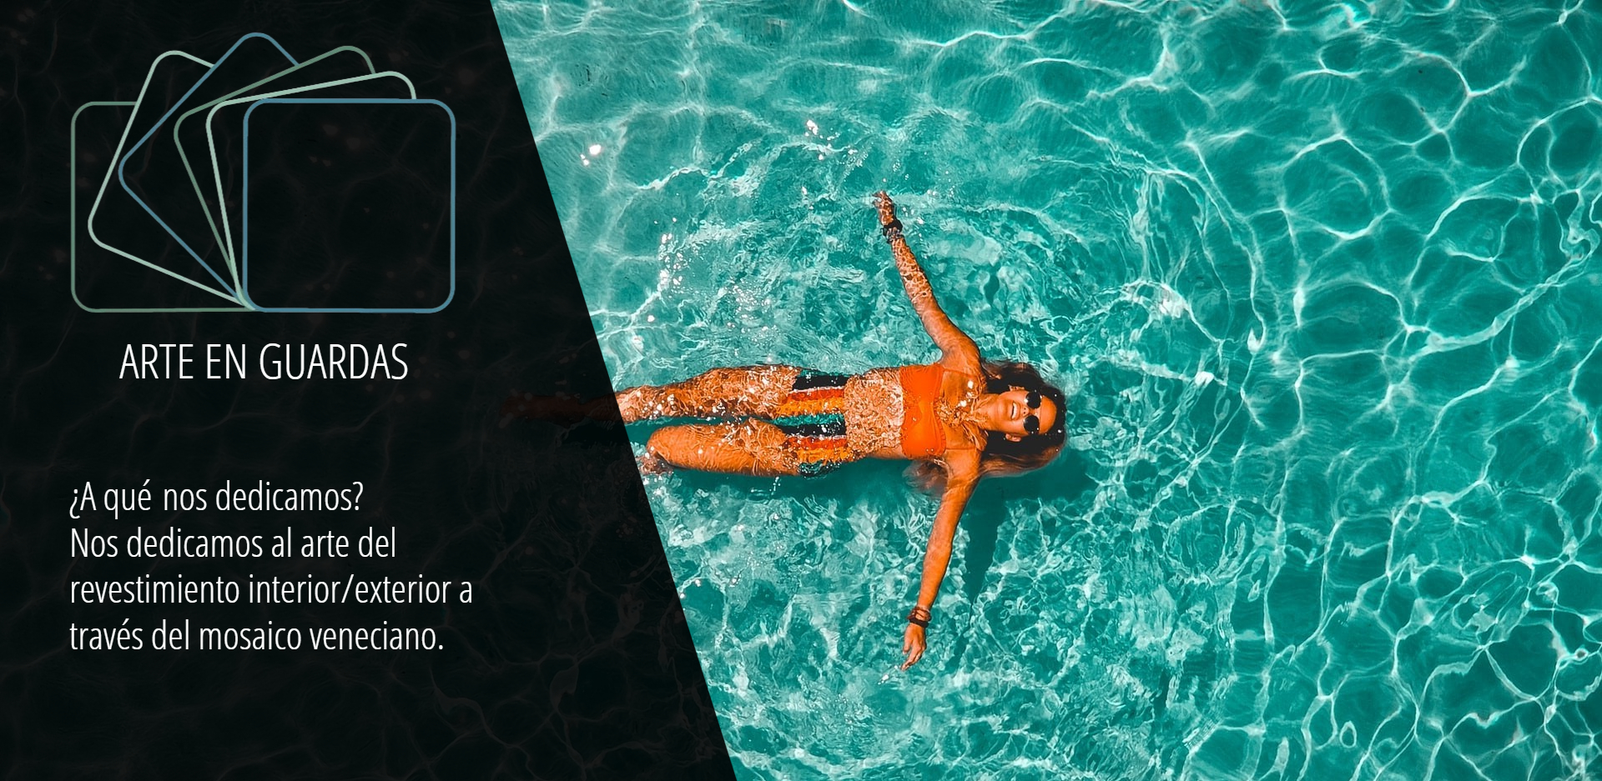
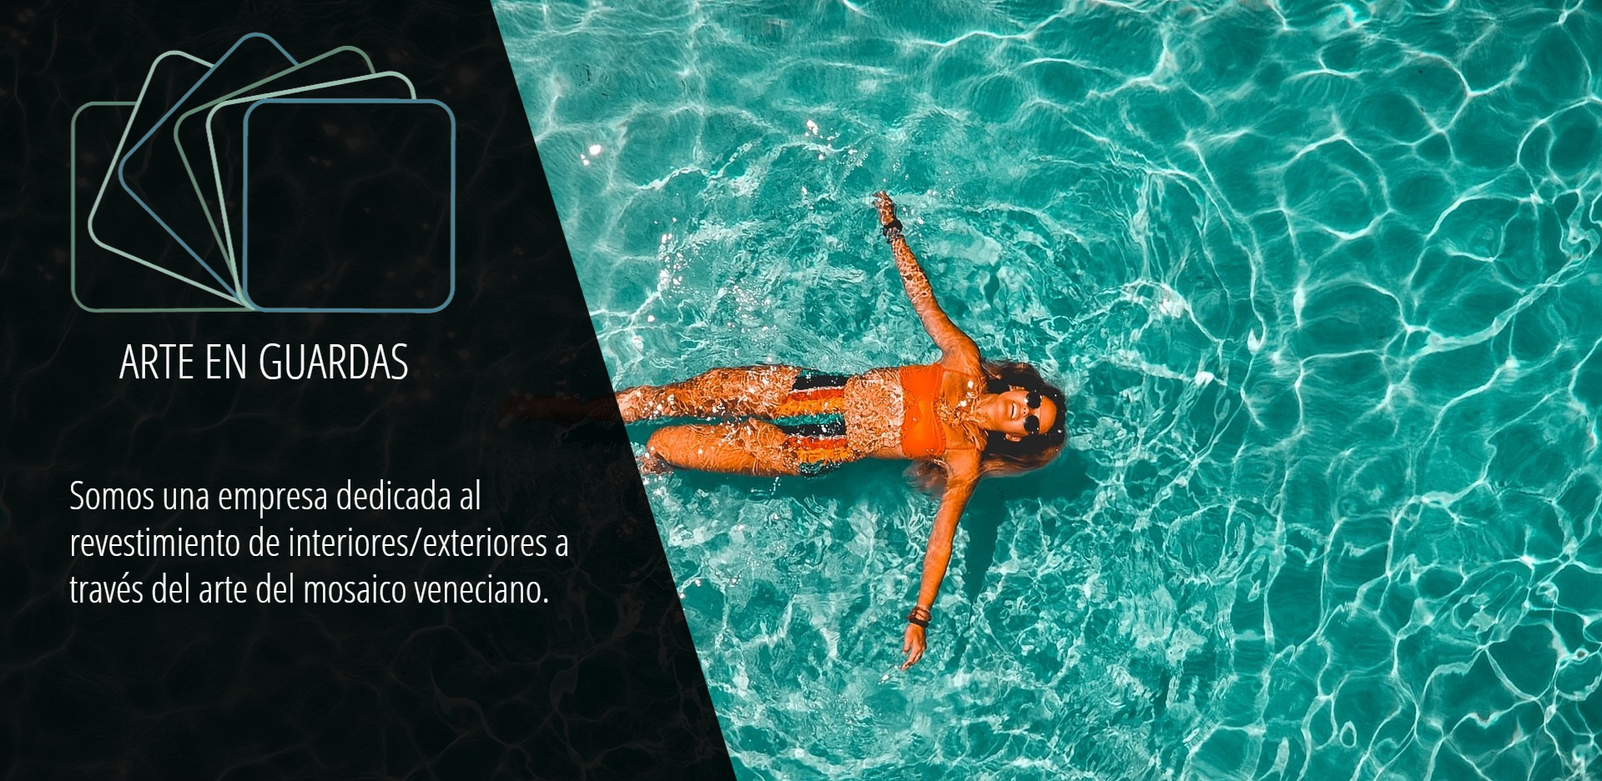
h1 y carrusel

Changed region(s): [[0.0312, 0.619, 0.375, 0.7118], [0.0312, 0.7428, 0.3438, 0.7737], [0.0312, 0.8047, 0.2812, 0.8356]]

diff --git a/estilos/main.css b/estilos/main.css
@@ -1,1 +1,1 @@
-.galeriaImg__texto{font-family:'Open Sans', sans-serif;text-align:center;color:white;font-size:1.1rem;margin-top:25px;margin-bottom:25px}.galeriaImg__contenedor{display:-webkit-box;display:-ms-flexbox;display:flex;-ms-flex-wrap:wrap;flex-wrap:wrap;-webkit-box-pack:space-evenly;-ms-flex-pack:space-evenly;justify-content:space-evenly}.galeriaImg__img{width:38vw;margin-bottom:5vh}*{margin:0px;padding:0px}.navPrueba{font-size:1rem;font-family:'Open Sans', sans-serif;color:white !important;margin-left:7px;margin-right:7px}.navPrueba:hover{color:#c5c5c5 !important}.navPrueba--active{color:#c0bfbf !important;border-bottom:1px solid #fff;font-family:'Open Sans', sans-serif;font-size:1rem}.sticky{background-color:rgba(0,0,0,0.63);position:-webkit-sticky;position:sticky;top:0px;z-index:100}.textoIndex{font-family:'Open Sans', sans-serif;color:#fff;text-align:center;font-size:1vw;margin-top:50px;margin-bottom:70px}body{background-color:#171717}.centrarImg{display:-webkit-box;display:-ms-flexbox;display:flex;-ms-flex-wrap:wrap;flex-wrap:wrap;-ms-flex-pack:distribute;justify-content:space-around}.imagen:hover{-webkit-transform:scale(1.03);transform:scale(1.03);-webkit-transition:0.5s;transition:0.5s}.marginCarrusel{margin-bottom:20px}.marginCarrusel .txtCarrusel{color:white;font-size:1.1rem;font-family:'Open Sans', sans-serif}.color123{background-color:#262626}.navBetween{display:-webkit-box;display:-ms-flexbox;display:flex;-webkit-box-pack:justify !important;-ms-flex-pack:justify !important;justify-content:space-between !important}.logo{width:200px;text-decoration:none;font-size:1rem;font-family:'Open Sans', sans-serif;color:white !important;margin-left:7px;margin-right:7px}.logo:hover{color:#cccaca !important}.movFot{-webkit-transform:translatey(-30px);transform:translatey(-30px)}.footerIndex{font-family:'Open Sans', sans-serif;padding-top:20px;padding-bottom:20px;display:-webkit-box;display:-ms-flexbox;display:flex;-webkit-box-orient:vertical;-webkit-box-direction:normal;-ms-flex-direction:column;flex-direction:column;-webkit-box-pack:space-evenly;-ms-flex-pack:space-evenly;justify-content:space-evenly;-webkit-box-align:center;-ms-flex-align:center;align-items:center}.footerIndex a{color:white}.footerIndex__texto{text-align:center;color:white;font-size:3.1vw;margin-top:10px}.listFooter__redes:hover{-webkit-transform:scale(1.08);transform:scale(1.08);-webkit-transform:rotate(15deg);transform:rotate(15deg)}.boton_Wpp{position:fixed;width:50px;height:50px;bottom:15px;left:15px;background:#25d366;color:#FFF;border-radius:40px;text-align:center;font-size:33px;z-index:100;-webkit-transition:300ms;transition:300ms}.boton_Wpp:hover{background-color:#5ed389fd;color:white}@media only screen and (min-width: 320px){.textoIndex{font-size:3vw;margin-top:20px;margin-bottom:30px}.imagen{width:75vw;margin-bottom:8vh}iframe{width:85vw;height:20vh}.listFooter{list-style:none;display:-webkit-box;display:-ms-flexbox;display:flex}.listFooter__redes{color:#fff;font-size:3.8vw;margin-left:5px;margin-right:5px}.galeriaImg__img{width:85vw;margin-top:5vh}}@media only screen and (min-width: 420px){.textoIndex{font-size:3vw;margin-top:20px;margin-bottom:30px}.imagen{width:75vw;margin-bottom:8vh}iframe{width:85vw;height:20vh}.listFooter{list-style:none;display:-webkit-box;display:-ms-flexbox;display:flex}.listFooter__redes{color:#fff;font-size:3.8vw;margin-left:5px;margin-right:5px}.galeriaImg__img{width:85vw;margin-top:5vh}}@media only screen and (min-width: 768px){iframe{width:30px}.footerIndex{padding-top:20px;padding-bottom:20px;display:-webkit-box;display:-ms-flexbox;display:flex;-webkit-box-orient:horizontal;-webkit-box-direction:normal;-ms-flex-direction:row;flex-direction:row;-webkit-box-pack:space-evenly;-ms-flex-pack:space-evenly;justify-content:space-evenly;-webkit-box-align:center;-ms-flex-align:center;align-items:center}.footerIndex__texto{text-align:center;color:white;font-size:2vw;margin-top:10px}iframe{width:50vw;height:30vh}.listFooter{list-style:none;display:-webkit-box;display:-ms-flexbox;display:flex;-webkit-box-orient:vertical;-webkit-box-direction:normal;-ms-flex-direction:column;flex-direction:column}.listFooter__redes{color:white;font-size:2.5vw;margin-left:5px;margin-right:5px}.imagen{width:45vw;margin-bottom:8vh}.textoIndex{font-size:2.3vw;margin-top:20px;margin-bottom:30px}.galeriaImg__img{width:45vw;margin-top:5px}}@media only screen and (min-width: 1024px){.footerIndex{padding-top:20px;padding-bottom:20px;display:-webkit-box;display:-ms-flexbox;display:flex;-webkit-box-orient:horizontal;-webkit-box-direction:normal;-ms-flex-direction:row;flex-direction:row;-webkit-box-pack:space-evenly;-ms-flex-pack:space-evenly;justify-content:space-evenly;-webkit-box-align:center;-ms-flex-align:center;align-items:center}.footerIndex__texto{text-align:center;color:white;font-size:1.5vw;margin-top:10px}iframe{width:50vw;height:30vh}.listFooter{list-style:none;display:-webkit-box;display:-ms-flexbox;display:flex;-webkit-box-orient:vertical;-webkit-box-direction:normal;-ms-flex-direction:column;flex-direction:column}.listFooter__redes{color:white;font-size:1.8vw;margin-left:5px;margin-right:19px}.imagen{width:38vw;margin-bottom:8vh}.textoIndex{font-size:1.5vw;margin-top:40px;margin-bottom:60px}.galeriaImg__img{width:42vw;margin-top:5vh}}
+.galeriaImg__texto{font-family:'Open Sans', sans-serif;text-align:center;color:white;font-size:1.1rem;margin-top:25px;margin-bottom:25px}.galeriaImg__contenedor{display:-webkit-box;display:-ms-flexbox;display:flex;-ms-flex-wrap:wrap;flex-wrap:wrap;-webkit-box-pack:space-evenly;-ms-flex-pack:space-evenly;justify-content:space-evenly}.galeriaImg__img{width:38vw;margin-bottom:5vh}*{margin:0px;padding:0px}.navPrueba{font-size:1rem;font-family:'Open Sans', sans-serif;color:white !important;margin-left:7px;margin-right:7px}.navPrueba:hover{color:#c5c5c5 !important}.navPrueba--active{color:#c0bfbf !important;border-bottom:1px solid #fff;font-family:'Open Sans', sans-serif;font-size:1rem}.sticky{background-color:rgba(0,0,0,0.63);position:-webkit-sticky;position:sticky;top:0px;z-index:100}.textoIndex{font-family:'Open Sans', sans-serif;color:#fff;text-align:center;font-size:1vw;margin-top:50px;margin-bottom:70px}body{background-color:#171717}.centrarImg{display:-webkit-box;display:-ms-flexbox;display:flex;-ms-flex-wrap:wrap;flex-wrap:wrap;-ms-flex-pack:distribute;justify-content:space-around}.imagen:hover{-webkit-transform:scale(1.03);transform:scale(1.03);-webkit-transition:0.5s;transition:0.5s}.marginCarrusel{margin-bottom:20px}.marginCarrusel .txtCarrusel{color:white;font-size:1.1rem;font-family:'Open Sans', sans-serif}.color123{background-color:#262626}.navBetween{display:-webkit-box;display:-ms-flexbox;display:flex;-webkit-box-pack:justify !important;-ms-flex-pack:justify !important;justify-content:space-between !important}.logo{width:200px;text-decoration:none;font-size:1rem;font-family:'Open Sans', sans-serif;color:white !important;margin-left:7px;margin-right:7px}.logoImagen{position:relative;right:10px;bottom:3px}.logo:hover{color:#cccaca !important}.movFot{-webkit-transform:translatey(-30px);transform:translatey(-30px)}.footerIndex{font-family:'Open Sans', sans-serif;padding-top:20px;padding-bottom:20px;display:-webkit-box;display:-ms-flexbox;display:flex;-webkit-box-orient:vertical;-webkit-box-direction:normal;-ms-flex-direction:column;flex-direction:column;-webkit-box-pack:space-evenly;-ms-flex-pack:space-evenly;justify-content:space-evenly;-webkit-box-align:center;-ms-flex-align:center;align-items:center}.footerIndex a{color:white}.footerIndex__texto{text-align:center;color:white;font-size:3.1vw;margin-top:10px}.listFooter__redes:hover{-webkit-transform:scale(1.08);transform:scale(1.08);-webkit-transform:rotate(15deg);transform:rotate(15deg)}.boton_Wpp{position:fixed;width:50px;height:50px;bottom:15px;left:15px;background:#25d366;color:#FFF;border-radius:40px;text-align:center;font-size:33px;z-index:100;-webkit-transition:300ms;transition:300ms}.boton_Wpp:hover{background-color:#5ed389fd;color:white}@media only screen and (min-width: 320px){.textoIndex{font-size:3vw;margin-top:20px;margin-bottom:30px}.imagen{width:75vw;margin-bottom:8vh}iframe{width:85vw;height:20vh}.listFooter{list-style:none;display:-webkit-box;display:-ms-flexbox;display:flex}.listFooter__redes{color:#fff;font-size:3.8vw;margin-left:5px;margin-right:5px}.galeriaImg__img{width:85vw;margin-top:5vh}}@media only screen and (min-width: 420px){.textoIndex{font-size:3vw;margin-top:20px;margin-bottom:30px}.imagen{width:75vw;margin-bottom:8vh}iframe{width:85vw;height:20vh}.listFooter{list-style:none;display:-webkit-box;display:-ms-flexbox;display:flex}.listFooter__redes{color:#fff;font-size:3.8vw;margin-left:5px;margin-right:5px}.galeriaImg__img{width:85vw;margin-top:5vh}}@media only screen and (min-width: 768px){iframe{width:30px}.footerIndex{padding-top:20px;padding-bottom:20px;display:-webkit-box;display:-ms-flexbox;display:flex;-webkit-box-orient:horizontal;-webkit-box-direction:normal;-ms-flex-direction:row;flex-direction:row;-webkit-box-pack:space-evenly;-ms-flex-pack:space-evenly;justify-content:space-evenly;-webkit-box-align:center;-ms-flex-align:center;align-items:center}.footerIndex__texto{text-align:center;color:white;font-size:2vw;margin-top:10px}iframe{width:50vw;height:30vh}.listFooter{list-style:none;display:-webkit-box;display:-ms-flexbox;display:flex;-webkit-box-orient:vertical;-webkit-box-direction:normal;-ms-flex-direction:column;flex-direction:column}.listFooter__redes{color:white;font-size:2.5vw;margin-left:5px;margin-right:5px}.imagen{width:45vw;margin-bottom:8vh}.textoIndex{font-size:2.3vw;margin-top:20px;margin-bottom:30px}.galeriaImg__img{width:45vw;margin-top:5px}}@media only screen and (min-width: 1024px){.footerIndex{padding-top:20px;padding-bottom:20px;display:-webkit-box;display:-ms-flexbox;display:flex;-webkit-box-orient:horizontal;-webkit-box-direction:normal;-ms-flex-direction:row;flex-direction:row;-webkit-box-pack:space-evenly;-ms-flex-pack:space-evenly;justify-content:space-evenly;-webkit-box-align:center;-ms-flex-align:center;align-items:center}.footerIndex__texto{text-align:center;color:white;font-size:1.5vw;margin-top:10px}iframe{width:50vw;height:30vh}.listFooter{list-style:none;display:-webkit-box;display:-ms-flexbox;display:flex;-webkit-box-orient:vertical;-webkit-box-direction:normal;-ms-flex-direction:column;flex-direction:column}.listFooter__redes{color:white;font-size:1.8vw;margin-left:5px;margin-right:19px}.imagen{width:38vw;margin-bottom:8vh}.textoIndex{font-size:1.5vw;margin-top:40px;margin-bottom:60px}.galeriaImg__img{width:42vw;margin-top:5vh}}

diff --git a/index.html b/index.html
@@ -31,7 +31,7 @@
   data-aos-duration="700" class="sticky">
     <nav class="navbar navbar-expand-lg navbar-dark">
       <div class="container-fluid">
-        <a href="#inicio" class="logo"><span>ARTE EN GUARDAS</span></a>
+        <a href="#inicio" class="logo"><img src="./imagenes-videos/logoPequeno.png" alt="logo" class="logoImagen"><span>ARTE EN GUARDAS</span></a>
         <button class="navbar-toggler " type="button" data-bs-toggle="collapse" data-bs-target="#navbarNav" aria-controls="navbarNav" aria-expanded="false" aria-label="Toggle navigation">
           <span class="navbar-toggler-icon"></span>
         </button>
@@ -56,37 +56,31 @@
           </ul>
         </div>
       </div>
-    </nav>
+    </nav> 
   </div>
   <!-- CARRUCEL -->
   <div id="carouselExampleFade" class="carousel slide carousel-fade" data-bs-ride="carousel">
     <div class="carousel-inner">
       <div class="carousel-item active">
-        <img src="./imagenes-videos/carrusel1.jpg" class="d-block w-100 blur" alt="imagen de piscina">
+        <a href="#"><img src="./imagenes-videos/carrusel1.jpg" class="d-block w-100 blur" alt="imagenes de piscinas"></a>
       </div>
       <div class="carousel-item">
-        <img src="./imagenes-videos/carrusel2.jpg" class="d-block w-100" alt="imagen de piscina">
+        <a href="./pestanas/piscinas.html"><img src="./imagenes-videos/carrusel2.jpg" class="d-block w-100" alt="imagenes de piscina"></a>
       </div>
       <div class="carousel-item">
-        <img src="./imagenes-videos/carrusel3.jpg" class="d-block w-100" alt="imagen de piscinas">
+        <a href="./pestanas/banos.html"><img src="./imagenes-videos/carrusel3.jpg" class="d-block w-100" alt="imagenes de baños"></a>
       </div>
       <div class="carousel-item">
-        <img src="./imagenes-videos/carrusel4.jpg" class="d-block w-100" alt="imagen de piscinas">
+        <a href="./pestanas/cocinas.html"><img src="./imagenes-videos/carrusel4.jpg" class="d-block w-100" alt="imagenes de cocinas"></a>
       </div>
       <div class="carousel-item">
-        <img src="./imagenes-videos/carrusel5.jpg" class="d-block w-100" alt="imagen de piscinas">
+        <a href="./pestanas/personalizados.html"><img src="./imagenes-videos/carrusel5.jpg" class="d-block w-100" alt="imagenes de especiales"></a>
       </div>
     </div>
-    <!-- sacar -->
-    <button class="carousel-control-prev" type="button" data-bs-target="#carouselExampleFade" data-bs-slide="prev">
-      <span class="carousel-control-prev-icon" aria-hidden="true"></span>
-      <span class="visually-hidden">Previous</span>
-    </button>
     <button class="carousel-control-next" type="button" data-bs-target="#carouselExampleFade" data-bs-slide="next">
       <span class="carousel-control-next-icon" aria-hidden="true"></span>
       <span class="visually-hidden">Next</span>
     </button>
-    <!-- hasta aca -->
   </div>
   <!-- Boton wpp -->
   <div>
@@ -103,7 +97,7 @@
       </div>
     </div>
   </main>
-  <!-- prueba colores -->
+  <!-- carrusel colores -->
   <div class="container marginCarrusel">
     <div class="row">
       <div class="col-md-12">
@@ -132,7 +126,7 @@
       </div>
     </div>
   </div>  
-
+  <!-- carrusel colores 2 -->
   <div class="container marginCarrusel">
     <div class="row">
       <div class="col-md-12">
@@ -155,11 +149,9 @@
             <span class="visually-hidden">Next</span>
           </button>
         </div>
-        
       </div>
     </div>
   </div>
-  <!-- prueba colores -->
   <!-- FOOTER -->
   <div>
     <div style="height: 150px; overflow: hidden;" ><svg viewBox="0 0 500 150" preserveAspectRatio="none" style="height: 100%; width: 100%;"><path d="M-4.79,68.58 C87.18,104.11 275.67,14.30 500.84,91.28 L500.00,150.00 L0.00,150.00 Z" style="stroke: none; fill: #262626;"></path></svg></div>
@@ -186,10 +178,10 @@
       </div>
     </div>
   </div>
+
   <!-- boostrap -->
   <script src="https://cdn.jsdelivr.net/npm/bootstrap@5.0.2/dist/js/bootstrap.bundle.min.js" integrity="sha384-MrcW6ZMFYlzcLA8Nl+NtUVF0sA7MsXsP1UyJoMp4YLEuNSfAP+JcXn/tWtIaxVXM" crossorigin="anonymous"></script>
   <!-- AOS -->
-  
   <script>
     AOS.init();
   </script>

diff --git a/pestanas/personalizados.html b/pestanas/personalizados.html
@@ -30,10 +30,10 @@
 <body>
   <!-- Navegacion -->
   <div data-aos="fade-down"
-  data-aos-duration="700">
+  data-aos-duration="700" class="sticky">
   <nav class="navbar navbar-expand-lg navbar-dark">
     <div class="container-fluid">
-      <a href="../index.html" class="logo"><span>ARTE EN GUARDAS</span></a>
+      <a href="../index.html" class="logo"><img src="../imagenes-videos/logoPequeno.png" alt="logo" class="logoImagen"><span>ARTE EN GUARDAS</span></a>
       <button class="navbar-toggler " type="button" data-bs-toggle="collapse" data-bs-target="#navbarNav" aria-controls="navbarNav" aria-expanded="false" aria-label="Toggle navigation">
         <span class="navbar-toggler-icon"></span>
       </button>
@@ -66,15 +66,15 @@
  </div>
   <!-- MAIN -->
   <main class="galeriaImg">
-      <p class="galeriaImg__texto">- Arte es la virtud de ver el mundo con otros ojos y construir espacios especiales en él. -</p>
-      <div class="galeriaImg__contenedor">
-          <img src="../imagenes-videos/imagenesPerso/especial-1-768x594.jpeg" alt="imagen personalizada1" class="galeriaImg__img rounded">
-          <img src="../imagenes-videos/imagenesPerso/especial-3-768x594.jpeg" alt="imagen personalizada2" class="galeriaImg__img rounded">
-          <img src="../imagenes-videos/imagenesPerso/especial-4-768x594.jpeg" alt="imagen personalizada3" class="galeriaImg__img rounded">
-          <img src="../imagenes-videos/imagenesPerso/especial-6-768x594.jpeg" alt="imagen personalizada4" class="galeriaImg__img rounded"> 
-          <img src="../imagenes-videos/imagenesPerso/especial-2-768x594.jpeg" alt="imagen personalizada5" class="galeriaImg__img rounded"> 
-          <img src="../imagenes-videos/imagenesPerso/especial-5-768x594.jpeg" alt="imagen personalizada6" class="galeriaImg__img rounded">  
-      </div>
+    <h1 class="galeriaImg__texto">- Arte es la virtud de ver el mundo con otros ojos y construir espacios especiales en él. -</h1>
+    <div class="galeriaImg__contenedor">
+        <img src="../imagenes-videos/imagenesPerso/especial-1-768x594.jpeg" alt="imagen personalizada1" class="galeriaImg__img rounded">
+        <img src="../imagenes-videos/imagenesPerso/especial-3-768x594.jpeg" alt="imagen personalizada2" class="galeriaImg__img rounded">
+        <img src="../imagenes-videos/imagenesPerso/especial-4-768x594.jpeg" alt="imagen personalizada3" class="galeriaImg__img rounded">
+        <img src="../imagenes-videos/imagenesPerso/especial-6-768x594.jpeg" alt="imagen personalizada4" class="galeriaImg__img rounded"> 
+        <img src="../imagenes-videos/imagenesPerso/especial-2-768x594.jpeg" alt="imagen personalizada5" class="galeriaImg__img rounded"> 
+        <img src="../imagenes-videos/imagenesPerso/especial-5-768x594.jpeg" alt="imagen personalizada6" class="galeriaImg__img rounded">  
+    </div>
   </main>
   <!-- FOOTER -->
   <div>

diff --git a/pestanas/piscinas.html b/pestanas/piscinas.html
@@ -28,10 +28,10 @@
 <body>
     <!-- Navegacion -->
     <div data-aos="fade-down"
-    data-aos-duration="700">
+    data-aos-duration="700" class="sticky">
     <nav class="navbar navbar-expand-lg navbar-dark">
       <div class="container-fluid">
-        <a href="../index.html" class="logo"><span>ARTE EN GUARDAS</span></a>
+        <a href="../index.html" class="logo"><img src="../imagenes-videos/logoPequeno.png" alt="logo" class="logoImagen"><span>ARTE EN GUARDAS</span></a>
         <button class="navbar-toggler " type="button" data-bs-toggle="collapse" data-bs-target="#navbarNav" aria-controls="navbarNav" aria-expanded="false" aria-label="Toggle navigation">
           <span class="navbar-toggler-icon"></span>
         </button>
@@ -64,15 +64,15 @@
     </div>
     <!-- MAIN -->
     <main class="galeriaImg">
-        <p class="galeriaImg__texto">- Arte en Guardas es la experiencia de poder proyectar las propias ideas de manera que se vean como las soñamos -</p>
-        <div class="galeriaImg__contenedor">
-            <img src="../imagenes-videos/imagenesPiletas/piscina-1-768x594.jpeg" alt="" class="galeriaImg__img rounded img-fluid">
-            <img src="../imagenes-videos/imagenesPiletas/piscina-2-768x594.jpeg" alt="" class="galeriaImg__img rounded img-fluid">
-            <img src="../imagenes-videos/imagenesPiletas/piscina-3-768x594.jpeg" alt="" class="galeriaImg__img rounded img-fluid">
-            <img src="../imagenes-videos/imagenesPiletas/piscina-4-768x594.jpeg" alt="" class="galeriaImg__img rounded img-fluid">
-            <img src="../imagenes-videos/imagenesPiletas/piscina-5-768x594.jpeg" alt="" class="galeriaImg__img rounded img-fluid">
-            <img src="../imagenes-videos/imagenesPiletas/piscina-6-768x594.jpeg" alt="" class="galeriaImg__img rounded img-fluid">
-        </div>
+      <h1 class="galeriaImg__texto">- Arte en Guardas es la experiencia de poder proyectar las propias ideas de manera que se vean como las soñamos -</h1>
+      <div class="galeriaImg__contenedor">
+          <img src="../imagenes-videos/imagenesPiletas/piscina-1-768x594.jpeg" alt="" class="galeriaImg__img rounded img-fluid">
+          <img src="../imagenes-videos/imagenesPiletas/piscina-2-768x594.jpeg" alt="" class="galeriaImg__img rounded img-fluid">
+          <img src="../imagenes-videos/imagenesPiletas/piscina-3-768x594.jpeg" alt="" class="galeriaImg__img rounded img-fluid">
+          <img src="../imagenes-videos/imagenesPiletas/piscina-4-768x594.jpeg" alt="" class="galeriaImg__img rounded img-fluid">
+          <img src="../imagenes-videos/imagenesPiletas/piscina-5-768x594.jpeg" alt="" class="galeriaImg__img rounded img-fluid">
+          <img src="../imagenes-videos/imagenesPiletas/piscina-6-768x594.jpeg" alt="" class="galeriaImg__img rounded img-fluid">
+      </div>
     </main>
     <!-- FOOTER -->
     <div>

diff --git a/pestanas/cocinas.html b/pestanas/cocinas.html
@@ -28,10 +28,10 @@
 <body>
   <!-- Navegacion -->
   <div data-aos="fade-down"
-  data-aos-duration="700">
+  data-aos-duration="700" class="sticky">
   <nav class="navbar navbar-expand-lg navbar-dark">
     <div class="container-fluid">
-      <a href="../index.html" class="logo"><span>ARTE EN GUARDAS</span></a>
+      <a href="../index.html" class="logo"><img src="../imagenes-videos/logoPequeno.png" alt="logo" class="logoImagen"><span>ARTE EN GUARDAS</span></a>
       <button class="navbar-toggler " type="button" data-bs-toggle="collapse" data-bs-target="#navbarNav" aria-controls="navbarNav" aria-expanded="false" aria-label="Toggle navigation">
         <span class="navbar-toggler-icon"></span>
       </button>
@@ -64,16 +64,15 @@
   </div>
   <!-- Main -->
   <main class="galeriaImg">
-      <p class="galeriaImg__texto">- Arte es disfrutar de espacios más relajantes. La posibilidad de vernos reflejados en las sensaciones que se generan.  -</p>
-      <div class="galeriaImg__contenedor">
-          <img src="../imagenes-videos/imagenesCocinas/cocina-2-768x594.jpeg" alt="" class="galeriaImg__img rounded">
-          <img src="../imagenes-videos/imagenesCocinas/cocina-3-768x594.jpeg" alt="" class="galeriaImg__img rounded">
-          <img src="../imagenes-videos/imagenesCocinas/cocina-4-768x594.jpeg" alt="" class="galeriaImg__img rounded">
-          <img src="../imagenes-videos/imagenesCocinas/cocina-5-768x594.jpeg" alt="" class="galeriaImg__img rounded"> 
-          <img src="../imagenes-videos/imagenesCocinas/cocina-1-768x594.jpeg" alt="" class="galeriaImg__img rounded"> 
-          <img src="../imagenes-videos/imagenesCocinas/cocina-6-768x594.jpeg" alt="" class="galeriaImg__img rounded"> 
-              
-      </div>
+    <h1 class="galeriaImg__texto">- Arte es disfrutar de espacios más relajantes. La posibilidad de vernos reflejados en las sensaciones que se generan.  -</h1>
+    <div class="galeriaImg__contenedor">
+        <img src="../imagenes-videos/imagenesCocinas/cocina-2-768x594.jpeg" alt="" class="galeriaImg__img rounded">
+        <img src="../imagenes-videos/imagenesCocinas/cocina-3-768x594.jpeg" alt="" class="galeriaImg__img rounded">
+        <img src="../imagenes-videos/imagenesCocinas/cocina-4-768x594.jpeg" alt="" class="galeriaImg__img rounded">
+        <img src="../imagenes-videos/imagenesCocinas/cocina-5-768x594.jpeg" alt="" class="galeriaImg__img rounded"> 
+        <img src="../imagenes-videos/imagenesCocinas/cocina-1-768x594.jpeg" alt="" class="galeriaImg__img rounded"> 
+        <img src="../imagenes-videos/imagenesCocinas/cocina-6-768x594.jpeg" alt="" class="galeriaImg__img rounded">      
+    </div>
   </main>
   <!-- FOOTER -->
   <div>

diff --git a/pestanas/banos.html b/pestanas/banos.html
@@ -30,10 +30,10 @@
 <body>
   <!-- Navegacion -->
   <div data-aos="fade-down"
-  data-aos-duration="700">
+  data-aos-duration="700" class="sticky">
   <nav class="navbar navbar-expand-lg navbar-dark">
     <div class="container-fluid">
-      <a href="../index.html" class="logo"><span>ARTE EN GUARDAS</span></a>
+      <a href="../index.html" class="logo"><img src="../imagenes-videos/logoPequeno.png" alt="logo" class="logoImagen"><span>ARTE EN GUARDAS</span></a>
       <button class="navbar-toggler " type="button" data-bs-toggle="collapse" data-bs-target="#navbarNav" aria-controls="navbarNav" aria-expanded="false" aria-label="Toggle navigation">
         <span class="navbar-toggler-icon"></span>
       </button>
@@ -66,15 +66,15 @@
   </div>
   <!-- MAIN -->
   <main class="galeriaImg">
-      <p class="galeriaImg__texto">- Arte es renovar los lugares de encuentro y de disfrute. Transmitir sensaciones y mostrar un poco más de nosotros. -</p>
-      <div class="galeriaImg__contenedor">
-          <img src="../imagenes-videos/imagenesBanos/bano-2-768x594.jpeg" alt="" class="galeriaImg__img rounded">
-          <img src="../imagenes-videos/imagenesBanos/bano-3-768x594.jpeg" alt="" class="galeriaImg__img rounded">
-          <img src="../imagenes-videos/imagenesBanos/bano-6-768x594.jpeg" alt="" class="galeriaImg__img rounded">
-          <img src="../imagenes-videos/imagenesBanos/bano-4-768x594.jpeg" alt="" class="galeriaImg__img rounded">
-          <img src="../imagenes-videos/imagenesBanos/bano-1-768x594.jpeg" alt="" class="galeriaImg__img rounded">
-          <img src="../imagenes-videos/imagenesBanos/bano-5-768x594.jpeg" alt="" class="galeriaImg__img rounded">
-      </div>
+    <h1 class="galeriaImg__texto">- Arte es renovar los lugares de encuentro y de disfrute. Transmitir sensaciones y mostrar un poco más de nosotros. -</h1>
+    <div class="galeriaImg__contenedor">
+        <img src="../imagenes-videos/imagenesBanos/bano-2-768x594.jpeg" alt="" class="galeriaImg__img rounded">
+        <img src="../imagenes-videos/imagenesBanos/bano-3-768x594.jpeg" alt="" class="galeriaImg__img rounded">
+        <img src="../imagenes-videos/imagenesBanos/bano-6-768x594.jpeg" alt="" class="galeriaImg__img rounded">
+        <img src="../imagenes-videos/imagenesBanos/bano-4-768x594.jpeg" alt="" class="galeriaImg__img rounded">
+        <img src="../imagenes-videos/imagenesBanos/bano-1-768x594.jpeg" alt="" class="galeriaImg__img rounded">
+        <img src="../imagenes-videos/imagenesBanos/bano-5-768x594.jpeg" alt="" class="galeriaImg__img rounded">
+    </div>
   </main>
   <!-- FOOTER -->
   <div>

diff --git a/estilos/main.scss b/estilos/main.scss
@@ -83,6 +83,12 @@ body{
     margin-right: 7px;
 }
 
+.logoImagen{
+    position: relative;
+    right: 10px;
+    bottom: 3px;
+}
+
 .logo:hover{
     color: rgb(204, 202, 202) !important;
 }
